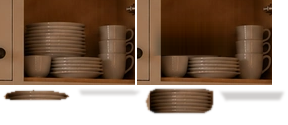
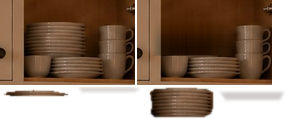
fix: isolate one hero plate in static truth atlas

diff --git a/sdk/casino-sdk/examples/bad-idea-machine/src/scene/kitchen-object-truth-proof.ts b/sdk/casino-sdk/examples/bad-idea-machine/src/scene/kitchen-object-truth-proof.ts
@@ -94,13 +94,13 @@ export const KITCHEN_PLATE_TRUTH = {
     support: { x: 137, y: 0, width: 135, height: 85 },
     heroBody: { x: 0, y: 87, width: 70, height: 20 },
     heroShadow: { x: 72, y: 87, width: 70, height: 20 },
-    stackBody: { x: 144, y: 87, width: 70, height: 29 },
+    stackBody: { x: 144, y: 87, width: 70, height: 33 },
     stackShadow: { x: 216, y: 87, width: 70, height: 18 },
   } satisfies Readonly<Record<'reference' | 'support' | 'heroBody' | 'heroShadow' | 'stackBody' | 'stackShadow', KitchenTruthAtlasFrame>>,
   restPlacement: {
     heroBody: { x: 18, y: 18 },
     heroShadow: { x: 18, y: 25 },
-    stackBody: { x: 18, y: 28 },
+    stackBody: { x: 18, y: 24 },
     stackShadow: { x: 18, y: 44 },
   },
   source: 'approved-master-local-extraction' as const,

diff --git a/sdk/casino-sdk/examples/bad-idea-machine/scripts/build-plate-truth.py b/sdk/casino-sdk/examples/bad-idea-machine/scripts/build-plate-truth.py
@@ -17,7 +17,7 @@ FRAMES = {
     'support': (137, 0, 135, 85, 0, 0),
     'heroBody': (0, 87, 70, 20, 18, 18),
     'heroShadow': (72, 87, 70, 20, 18, 25),
-    'stackBody': (144, 87, 70, 29, 18, 28),
+    'stackBody': (144, 87, 70, 33, 18, 24),
     'stackShadow': (216, 87, 70, 18, 18, 44),
 }
 
@@ -79,15 +79,15 @@ def build():
         'reference': reference,
         'support': cabinet_support(master, reference),
         'heroBody': photographic_body(reference, [
-            (577,94),(580,91),(588,89),(606,88),(626,89),(637,91),
-            (641,94),(638,96),(633,97),(583,97),(578,96),
+            (577,92),(580,90),(588,89),(606,88),(626,89),(637,91),
+            (640,92),(636,93),(583,93),
         ], .7),
         'stackBody': photographic_body(reference, [
-            (579,99),(584,97),(634,97),(641,99),(641,111),
-            (639,117),(633,120),(583,120),(577,117),(575,109),
+            (579,96),(583,93),(595,92),(625,92),(635,93),(641,96),(641,111),
+            (639,117),(633,120),(583,120),(580,117),(581,108),
         ], .8),
         'heroShadow': contact_shadow([
-            (580,95),(588,95),(634,95),(640,96),(636,99),(582,99),
+            (580,92),(588,92),(634,92),(640,93),(636,96),(582,96),
         ], 43),
         'stackShadow': contact_shadow([
             (577,115),(583,116),(633,116),(640,116),(636,123),(583,124),

diff --git a/sdk/casino-sdk/examples/bad-idea-machine/scripts/verify-plate-truth.py b/sdk/casino-sdk/examples/bad-idea-machine/scripts/verify-plate-truth.py
@@ -39,6 +39,19 @@ rest = build.composite(parts).convert('RGB')
 mae = sum(ImageStat.Stat(ImageChops.difference(rest, expected)).mean)/3
 assert mae < 1.2, f'intact plate reconstruction drifted: {mae:.3f}'
 assert parts['heroBody'].getchannel('A').getbbox() != parts['stackBody'].getchannel('A').getbbox()
+hero_bounds = parts['heroBody'].getchannel('A').getbbox()
+stack_bounds = parts['stackBody'].getchannel('A').getbbox()
+assert hero_bounds and stack_bounds
+# The approved master has successive bright plate rims near y=90, 93 and 97.
+# A single top plate may contain the first rim, but the later rims belong to
+# the remaining stack even when the hero is hidden.
+assert build.Y + hero_bounds[3] <= 96, 'hero body contains a second plate rim'
+assert build.Y + stack_bounds[1] <= 93, 'remaining stack loses an upper plate'
+for x in range(555, 579):
+    for y in range(88, 121):
+        assert parts['stackBody'].getchannel('A').getpixel((x-build.X,y-build.Y)) < 64, (
+            f'stack body contains left cabinet pixels at {x},{y}'
+        )
 for shadow in ('heroShadow','stackShadow'):
     assert {p[:3] for p in parts[shadow].get_flattened_data() if p[3]} == {(31,20,13)}, f'{shadow} contains architecture pixels'
 

diff --git a/docs/checkpoints/kitchen-rebuild-from-cp1/plate-truth.md b/docs/checkpoints/kitchen-rebuild-from-cp1/plate-truth.md
@@ -7,3 +7,7 @@ The approved 1000×600 Kitchen master and towel atlas were restored from the use
 The plate truth atlas holds the exact approved reference crop, cabinet support, independent photographed rest bodies for the top hero plate and remaining upper stack, and separate translucent contact shadows. The lower bowl, lower plates, mugs, cabinet frame and shelf stay with the support. The asset is reproducible with `python scripts/build-plate-truth.py` using the repository-local approved master; `npm run verify-plate-truth` decodes the atlas, checks registration and shadows, and compares the combined rest crop with the approved master.
 
 Review the four toggles separately: hide both plate bodies and shadows to inspect the cabinet backing; hide the hero to see one plate missing from the upper stack; view each body and shadow alone; then blink against the reference. The complete rest state is a static reconstruction only. No animation, impact fracture, ceramic debris, or fully exposed airborne plate face is approved here. The kettle also remains unresolved. Motion is blocked.
+
+## Static visual review, 2026-09-23
+
+The approved master and the six atlas compositions were inspected at native room scale and enlarged crop scale. The first extraction failed: its hero mask included multiple bright plate rims and its stack mask included left cabinet pixels. The masks were corrected against the photographic rim positions and inspected again on transparency, on the cabinet support, and in the full 1000×600 room. At this scope, the top hero plate, remaining stack, support, separate shadows, and combined intact rest state are visually accepted as **static assets**. The hero face exposed by rotation has not been authored or inspected. The interactive browser route could not be screenshot in this workspace because the local browser has no Chrome binary; the atlas compositions and HTTP route were checked separately. This is not motion acceptance or approval of the whole Kitchen.
